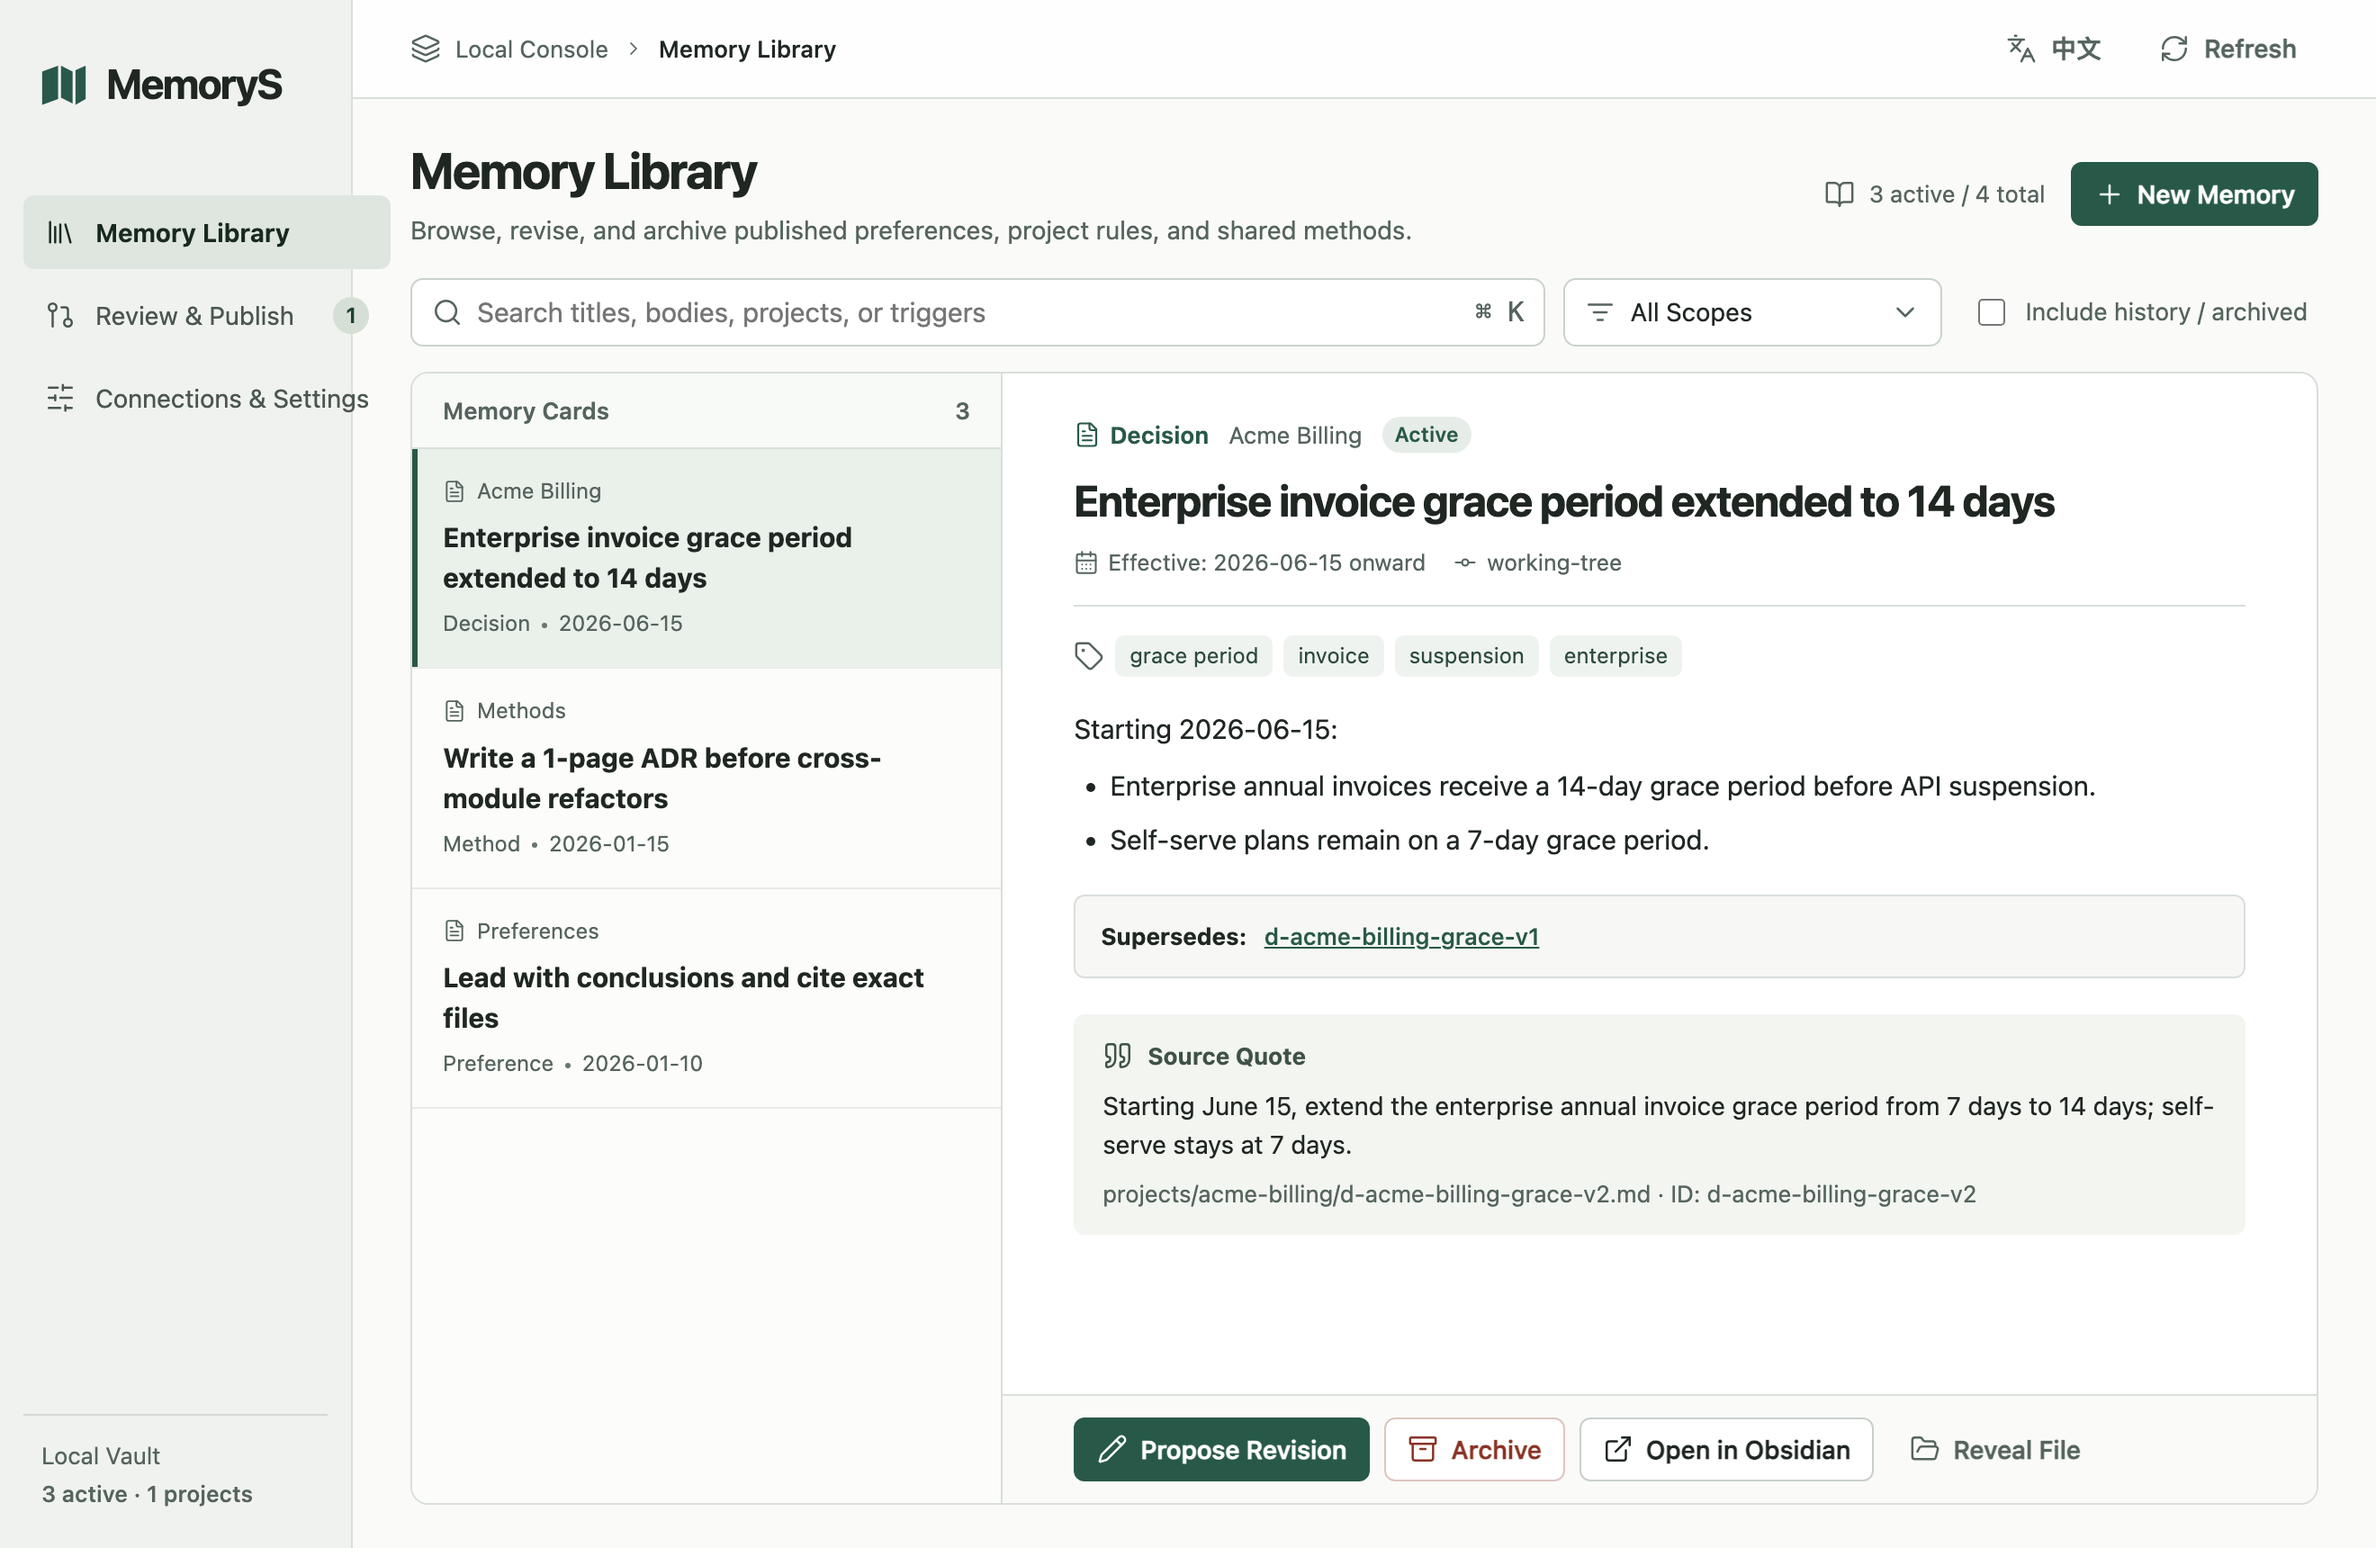
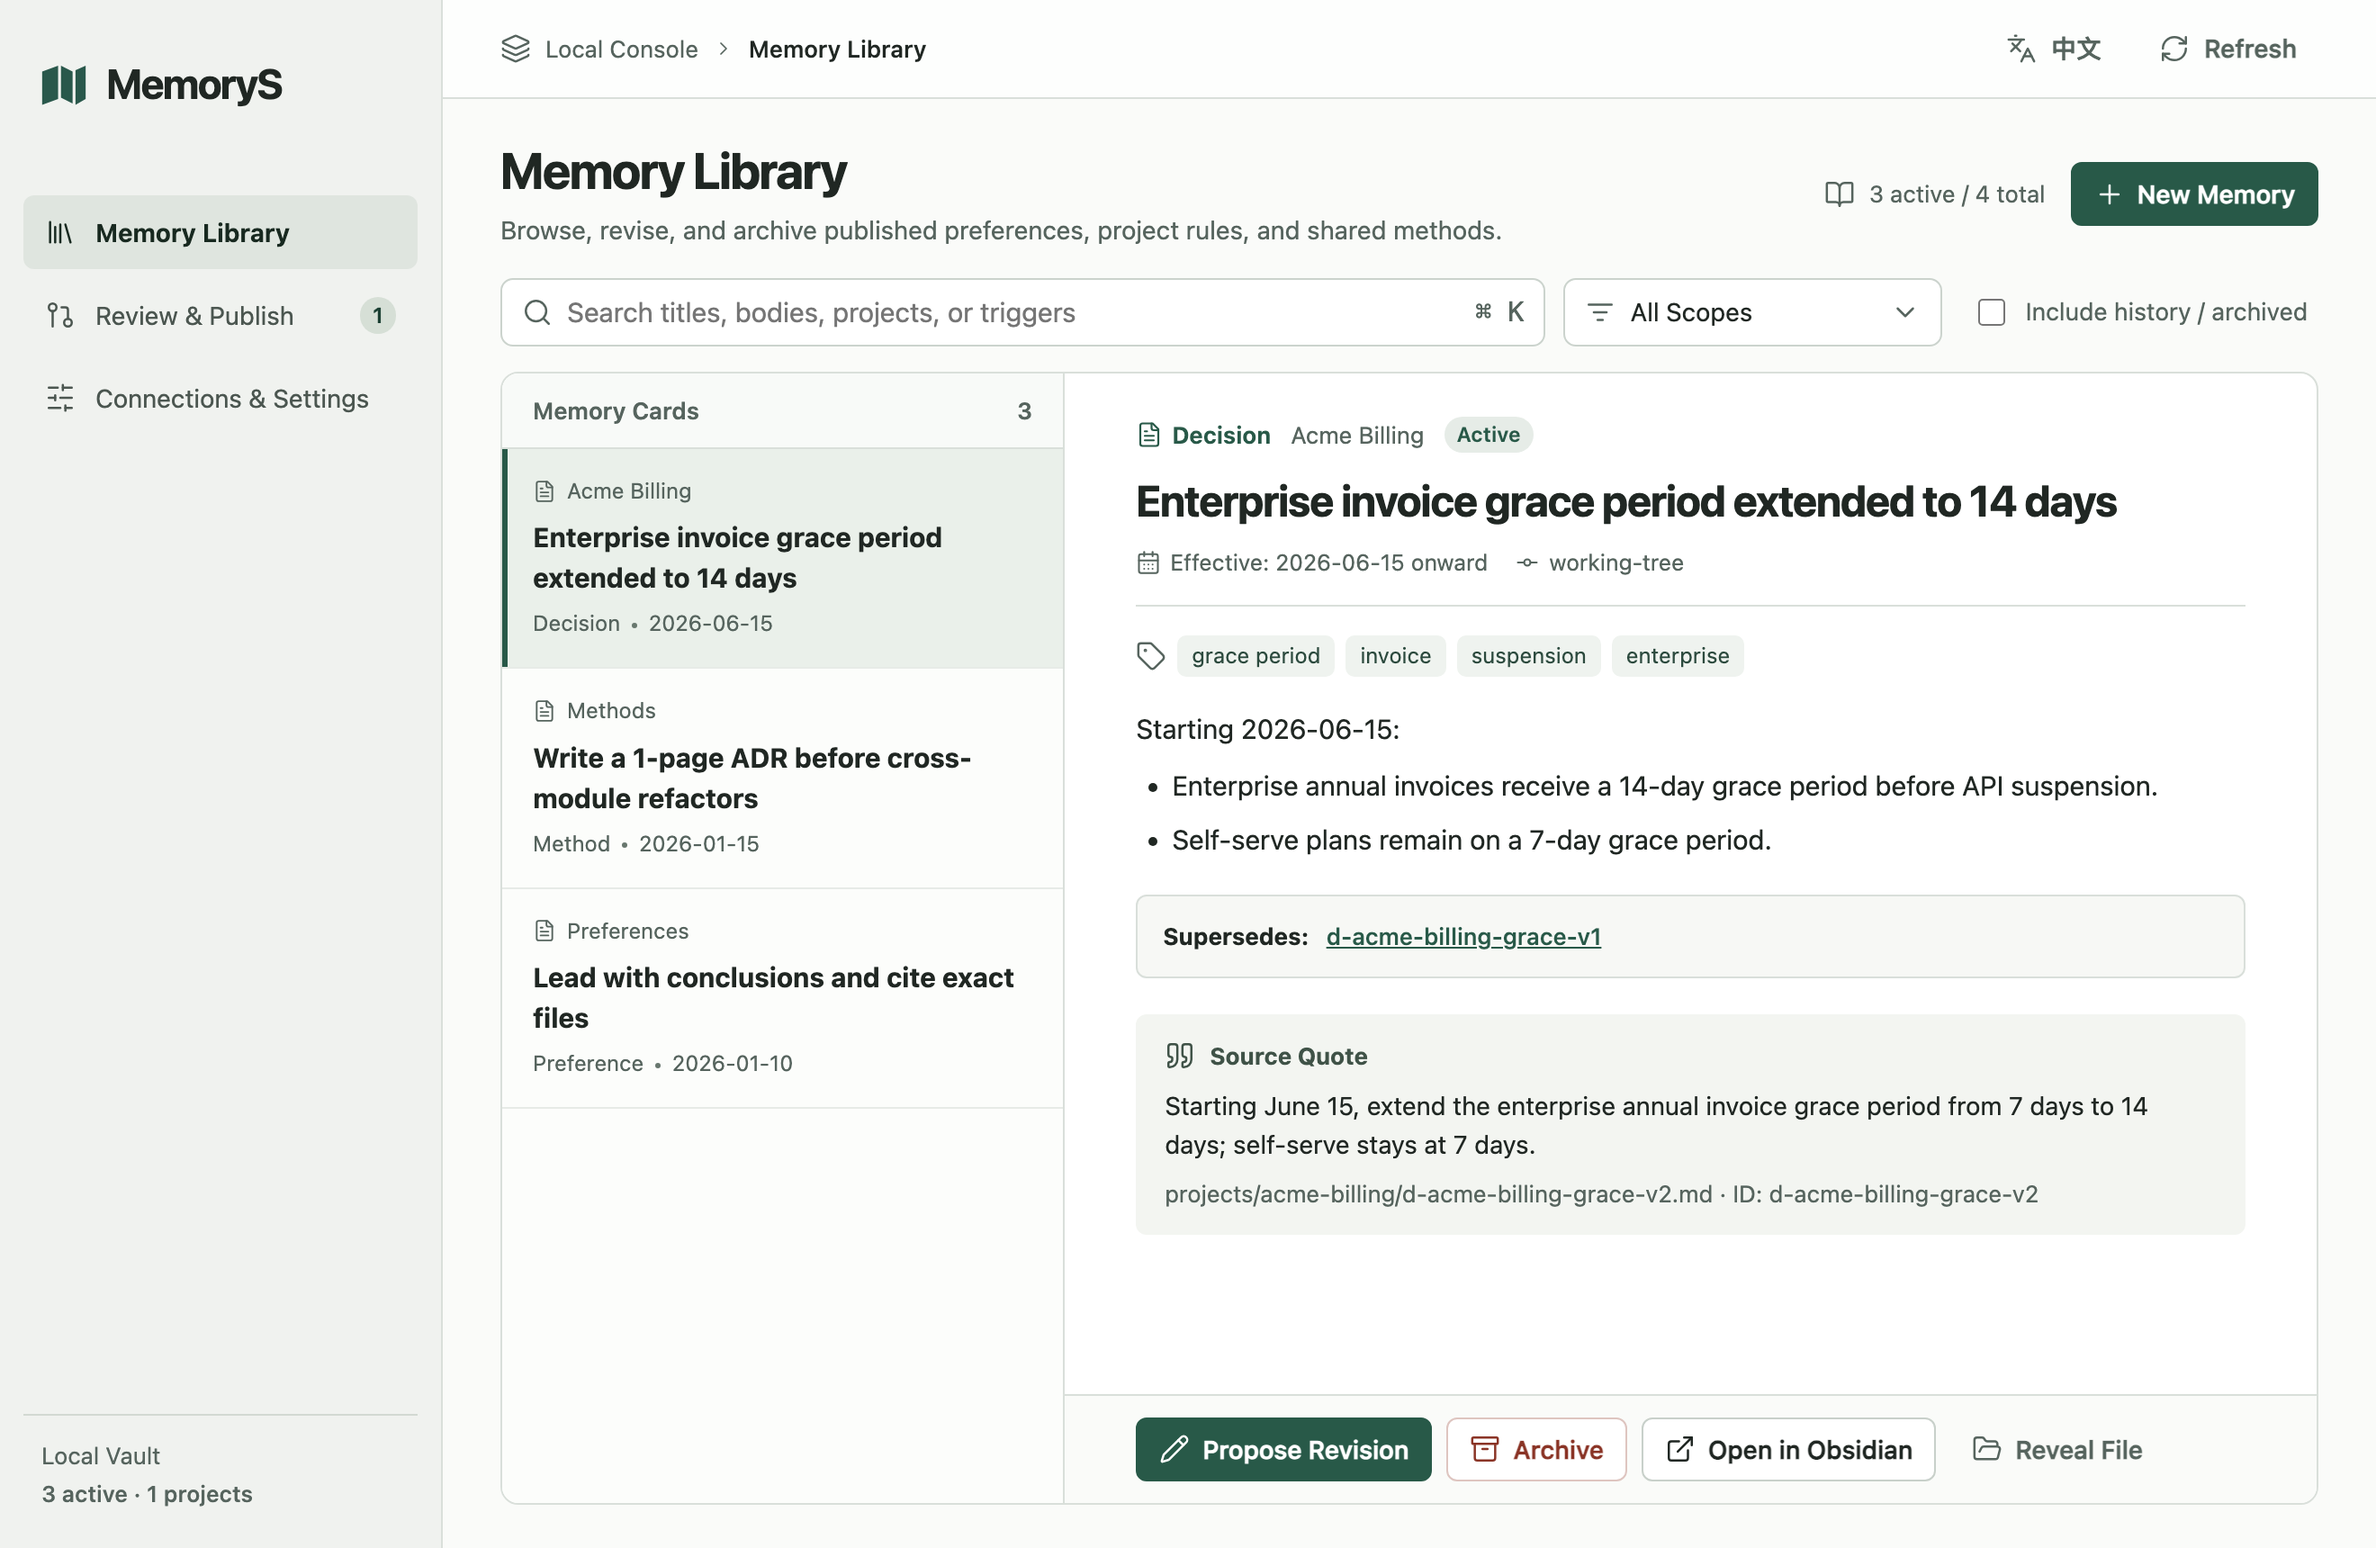
fix(ui): prevent sidebar overflow, fix responsive footer overlap, and update screenshots

diff --git a/desktop-app/src/style.css b/desktop-app/src/style.css
@@ -13,31 +13,33 @@ p,h1,h2,h3,h4{margin:0}
 small{font-size:13px;color:var(--muted)}
 code{font-family:ui-monospace,SFMono-Regular,Menlo,Consolas,monospace;font-size:12.5px;background:#eef2ee;padding:1px 5px;border-radius:4px;color:#1e3a2f}
 
-.shell{display:grid;grid-template-columns:196px minmax(0,1fr);height:100vh;overflow:hidden}
-.rail{height:100%;display:flex;flex-direction:column;background:#f0f2ef;border-right:1px solid var(--line);padding:29px 13px 18px}
+.shell{display:grid;grid-template-columns:246px minmax(0,1fr);height:100vh;overflow:hidden}
+.rail{height:100%;min-width:0;overflow:hidden;display:flex;flex-direction:column;background:#f0f2ef;border-right:1px solid var(--line);padding:29px 13px 18px}
 .brand{display:flex;align-items:center;gap:9px;padding:0 8px;margin-bottom:44px}
 .brand svg{width:29px;height:29px}
 .brand strong{font-size:23px;font-weight:690;letter-spacing:-.035em}
-.rail nav{display:grid;gap:5px}
-.rail button{display:flex;align-items:center;gap:11px;min-height:41px;text-align:left;padding:8px 12px;color:#4b5650;font-size:14px}
-.rail button span{white-space:nowrap}
+.rail nav{display:grid;gap:5px;min-width:0}
+.rail button{width:100%;min-width:0;display:flex;align-items:center;gap:11px;min-height:41px;text-align:left;padding:8px 12px;color:#4b5650;font-size:14px}
+.rail button span{min-width:0;white-space:nowrap;overflow:hidden;text-overflow:ellipsis}
 .rail button.active{color:#182920;font-weight:650;background:#dfe5df}
 .rail button:hover:not(.active){background:#e5e9e5}
-.rail button small{margin-left:auto;background:#d6dfd6;color:#1b4033;padding:1px 7px;border-radius:99px;font-size:12px;font-weight:600}
+.rail button small{flex:0 0 auto;margin-left:auto;background:#d6dfd6;color:#1b4033;padding:1px 7px;border-radius:99px;font-size:12px;font-weight:600}
 .vault-badge{margin-top:auto;border-top:1px solid #d2d9d2;padding:12px 10px 2px;display:grid;gap:2px}
 .vault-badge span{font-size:12.5px;color:var(--muted);font-weight:550}
 
 main{min-width:0;height:100vh;display:flex;flex-direction:column;overflow:hidden}
 .top{flex:0 0 auto;height:55px;display:flex;align-items:center;justify-content:space-between;gap:12px;border-bottom:1px solid var(--line);padding:0 32px;background:#fdfefd}
 .top-actions,.heading-actions,.crumb,.properties,.doc-meta,.entry-meta,.count,.form-title,.search,.filter,.actions,.top button,.source-note>div,.feedback,.form-status,.settings small,.back,.history-toggle,.tags-row{display:flex;align-items:center;gap:8px}
-.crumb{font-size:13px;color:var(--muted)}
+.crumb{font-size:13px;color:var(--muted);min-width:0;overflow:hidden;white-space:nowrap}
+.top-actions{flex:0 0 auto}
 .crumb b{font-weight:550;color:var(--ink)}
 .crumb svg:nth-child(2){--icon:12px}
 .surface{flex:1 1 0;min-height:0;width:100%;max-width:1600px;margin:0 auto;padding:22px 32px 24px;display:flex;flex-direction:column;overflow:hidden}
 .heading{flex:0 0 auto;display:flex;align-items:center;justify-content:space-between;gap:12px;margin-bottom:16px;flex-wrap:wrap}
+.heading>div:first-child{flex:1 1 280px;min-width:0}
 h1{font-size:28px;line-height:1.28;letter-spacing:-.035em}
 .heading p{margin-top:4px;color:var(--muted);font-size:14px}
-.heading-actions{gap:14px}
+.heading-actions{flex:0 0 auto;gap:14px}
 .count{font-size:13px;color:var(--muted)}
 
 .subtle,.outline,.primary,.back,.link-btn{display:inline-flex;align-items:center;justify-content:center;gap:7px;font-size:14px;font-weight:540;min-height:35px;padding:6px 12px;white-space:nowrap}
@@ -145,6 +147,8 @@ h1{font-size:28px;line-height:1.28;letter-spacing:-.035em}
 .form-title{margin-bottom:10px}
 .form-title h2{font-size:19px}
 .section-desc{font-size:13.5px;color:var(--muted);margin-bottom:14px}
+.section-desc code,.path-row code{word-break:break-all}
+.path-row code{min-width:0}
 .status-grid{display:grid;grid-template-columns:repeat(auto-fit,minmax(210px,1fr));gap:12px;margin-top:10px}
 .status-card{background:#f7f9f7;border:1px solid var(--line);border-radius:8px;padding:12px 14px;display:grid;gap:4px}
 .status-card b{font-size:14px;margin-bottom:2px}
@@ -187,7 +191,7 @@ dialog ul{max-height:38vh;overflow:auto}
 
 @media(min-width:1550px){.workspace{grid-template-columns:360px 1fr}}
 @media(max-width:1020px){
- .shell{grid-template-columns:168px minmax(0,1fr)}
+ .shell{grid-template-columns:224px minmax(0,1fr)}
  .rail{padding-inline:8px}
  .rail button{padding-inline:8px;gap:7px}
  .surface{padding:18px 20px 20px}
@@ -201,19 +205,19 @@ dialog ul{max-height:38vh;overflow:auto}
  html,body{height:auto;overflow:visible}
  .shell{display:block;height:auto;overflow:visible}
  main{height:auto;overflow:visible}
- .surface{height:auto;overflow:visible;padding:19px 16px}
- .rail{position:static;flex-direction:row;align-items:center;height:auto;min-height:52px;padding:7px 12px;border:0;border-bottom:1px solid var(--line);gap:12px}
+ .surface{flex:none;height:auto;overflow:visible;padding:19px 16px}
+ .rail{position:static;flex-direction:row;align-items:center;flex-wrap:wrap;height:auto;min-height:52px;padding:7px 12px;border:0;border-bottom:1px solid var(--line);gap:12px;row-gap:6px}
  .brand{margin:0;padding:0}
  .brand strong{font-size:18px}
  .brand svg{width:22px;height:22px}
- .rail nav{display:flex;gap:2px}
- .rail button{min-height:34px;padding:6px 7px;gap:4px;font-size:13px}
+ .rail nav{display:flex;flex-wrap:wrap;gap:2px;row-gap:6px;max-width:100%}
+ .rail button{width:auto;max-width:100%;min-height:34px;padding:6px 7px;gap:4px;font-size:13px}
  .vault-badge,.rail nav button svg{display:none}
  .top{height:42px}
  h1{font-size:24px}
- .workspace{height:auto;min-height:420px;grid-template-columns:200px 1fr}
- .index,.reading,.settings-stack{height:auto;overflow:visible}
- .index-list,.reading-scroll{overflow:visible}
+ .workspace{flex:none;height:auto;min-height:0;overflow:visible;grid-template-columns:200px 1fr}
+ .index,.reading,.settings-stack{flex:none;height:auto;overflow:visible}
+ .index-list,.reading-scroll{flex:none;height:auto;overflow:visible}
 }
 @media(max-width:580px){
  .workspace{display:block;min-height:330px}

diff --git a/desktop-app/src/i18n.js b/desktop-app/src/i18n.js
@@ -86,7 +86,15 @@ export const DICT = {
     switchVault: 'Switch / Init Vault',
     ready: 'Connected',
     notConfigured: 'Not configured',
-    connectTip: 'Tip: run `mem connect claude --apply` (or `codex` / `cursor`) in your terminal to wire up MCP & hooks.',
+    connectTip: [
+      'Tip: run ',
+      { code: 'mem connect claude --apply' },
+      ' (or ',
+      { code: 'codex' },
+      ' / ',
+      { code: 'cursor' },
+      ') in your terminal to wire up MCP & hooks.',
+    ],
     projectsHeading: 'Project Aliases & Workspace Paths',
     projectsDesc: 'Bind aliases (e.g., acme-billing, Billing) and local directories for dual-path recall by cwd or text mention.',
     selectProject: 'Project',
@@ -273,7 +281,15 @@ export const DICT = {
     switchVault: '切换 / 初始化 Vault',
     ready: '已就绪',
     notConfigured: '未配置',
-    connectTip: '提示：在终端运行 `mem connect claude --apply`（或 `codex` / `cursor`）可一键接入 MCP 与 Hook。',
+    connectTip: [
+      '提示：在终端运行 ',
+      { code: 'mem connect claude --apply' },
+      '（或 ',
+      { code: 'codex' },
+      ' / ',
+      { code: 'cursor' },
+      '）可一键接入 MCP 与 Hook。',
+    ],
     projectsHeading: '项目别名与本地目录',
     projectsDesc: '配置项目别名（如 acme-billing、账单）与关联目录，支持按工作区路径和对话点名双路召回。',
     selectProject: '选择项目',

diff --git a/desktop-app/src/App.svelte b/desktop-app/src/App.svelte
@@ -954,7 +954,7 @@
         <span>Hook: N/A</span>
        </div>
       </div>
-      <p class="section-desc" style="margin-top:12px;margin-bottom:0">{t.connectTip}</p>
+      <p class="section-desc" style="margin-top:12px;margin-bottom:0">{#each t.connectTip as part}{#if typeof part === 'string'}{part}{:else}<code>{part.code}</code>{/if}{/each}</p>
      </section>
 
      <section class="settings">
